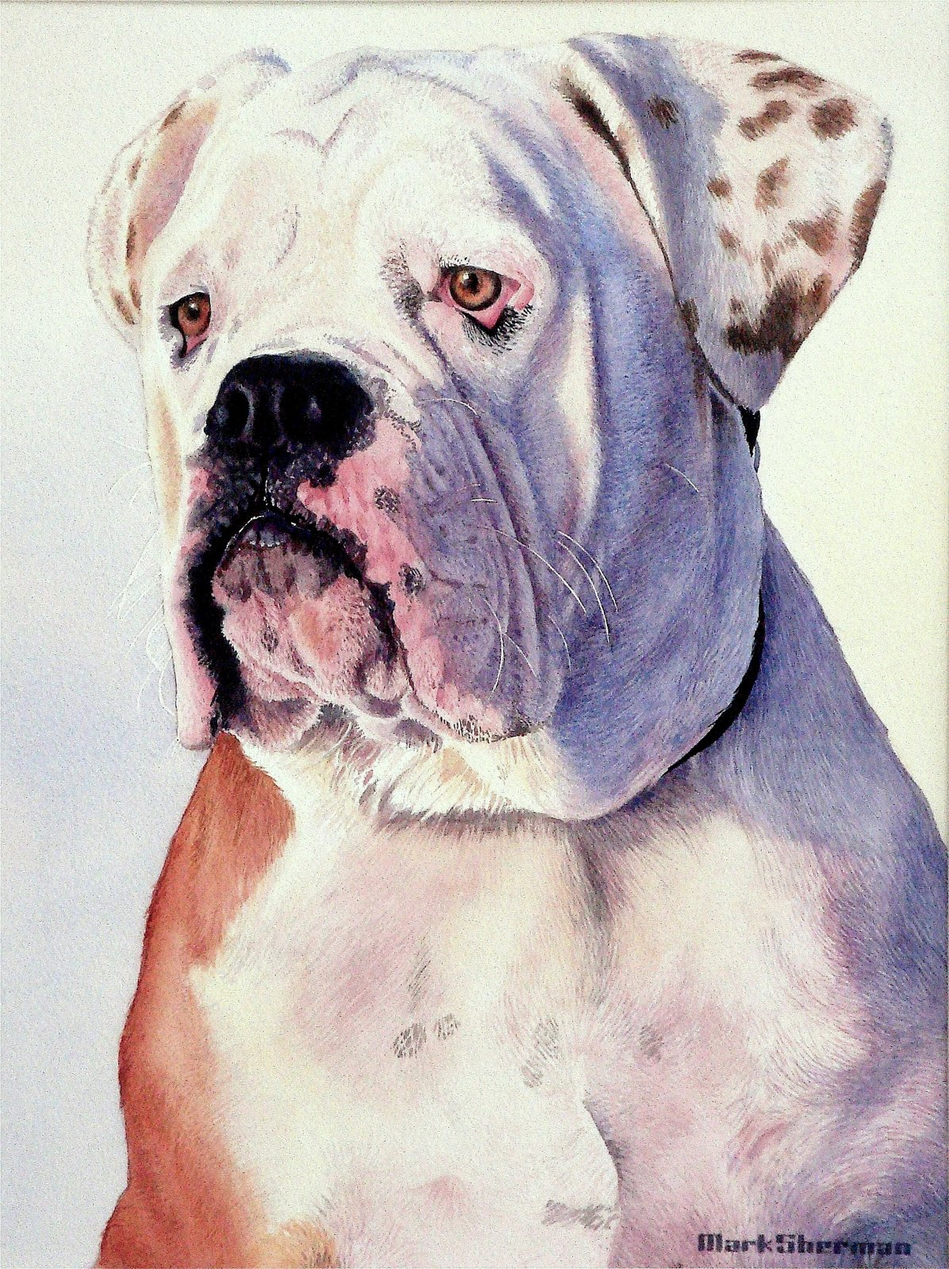
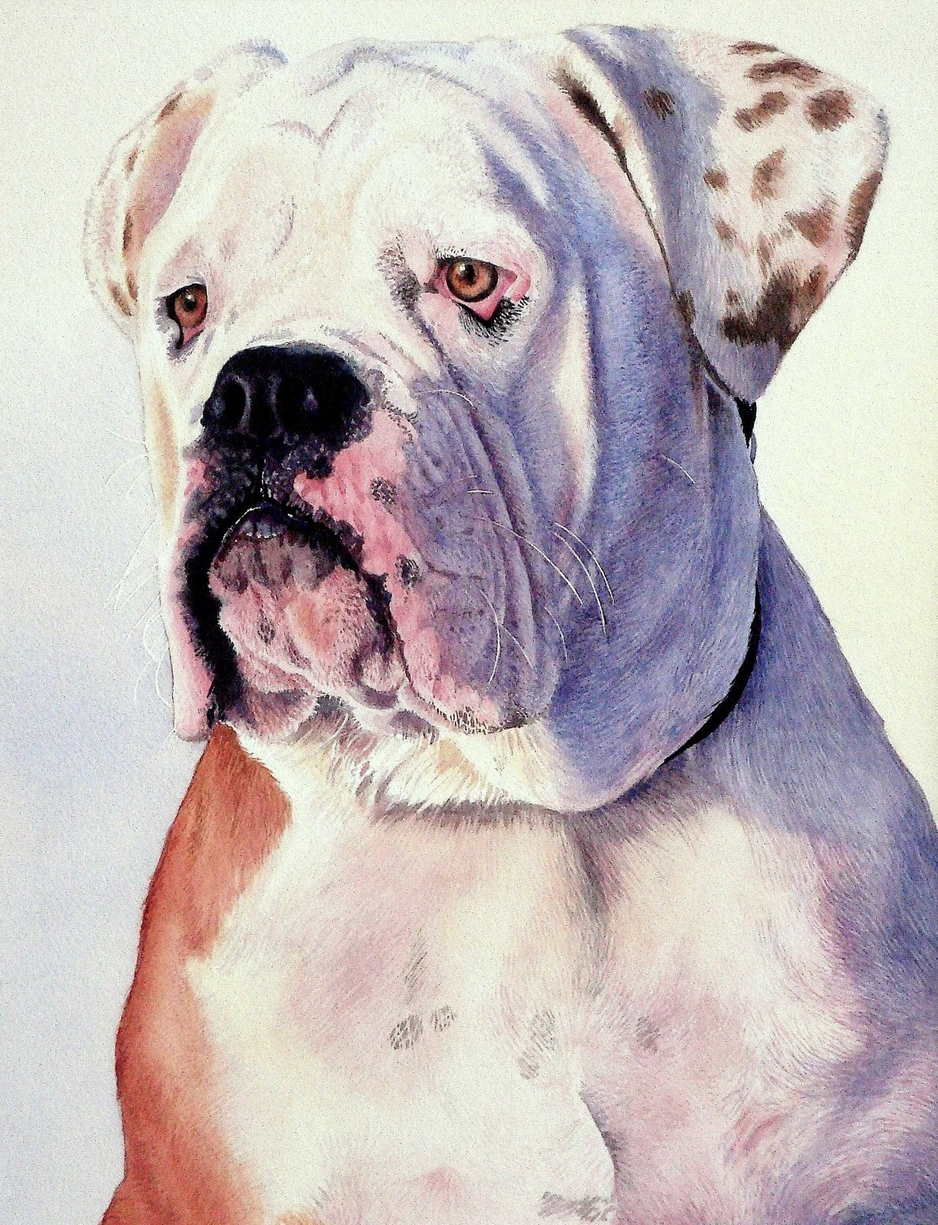
update

diff --git a/commissions.html b/commissions.html
@@ -21,9 +21,9 @@
     <nav class="nav" aria-label="Main">
       <a href="works.html">Works</a>
       <a href="commissions.html" aria-current="page">Commissions</a>
+      <a href="https://www.etsy.com/shop/MarkShermanArt" target="_blank" rel="noopener">Shop</a>
       <a href="about.html">About</a>
       <a href="contact.html">Contact</a>
-      <a href="https://www.etsy.com/shop/MarkShermanArt" target="_blank" rel="noopener">Shop</a>
     </nav>
   </header>
 
@@ -37,7 +37,7 @@
           <figcaption>Pet portrait</figcaption>
         </figure>
         <figure>
-          <img src="images/commissions/pet-bulldog.jpg" alt="Watercolor portrait of a white bulldog with brown spotted ears" width="1196" height="1600" loading="lazy">
+          <img src="images/commissions/pet-bulldog.jpg" alt="Watercolor portrait of a white bulldog with brown spotted ears" width="1183" height="1544" loading="lazy">
           <figcaption>Pet portrait</figcaption>
         </figure>
       </div>

diff --git a/styles.css b/styles.css
@@ -154,7 +154,7 @@ figcaption { display: flex; flex-direction: column; gap: 2px; margin-top: 22px; 
 /* ---- Commissions ---- */
 .commission-samples {
   display: grid;
-  grid-template-columns: 1.87fr 1fr; /* matches the two images' shapes so their heights line up */
+  grid-template-columns: 1.82fr 1fr; /* matches the two images' shapes so their heights line up */
   gap: 32px;
   margin: 28px 0 8px;
   align-items: end;
@@ -305,4 +305,11 @@ figcaption { display: flex; flex-direction: column; gap: 2px; margin-top: 22px; 
 @media (max-width: 760px) {
   .lightbox-body { grid-template-columns: 1fr; padding: 48px 20px 24px; gap: 16px; }
   .lightbox-body img { max-height: 55vh; }
+}
+
+@media (max-width: 480px) {
+  .name { font-size: 26px; letter-spacing: 0.24em; margin-right: -0.24em; }
+  .tagline { font-size: 12px; }
+  .nav { gap: 6px 16px; }
+  .nav a { font-size: 13px; letter-spacing: 0.1em; }
 }

diff --git a/about.html b/about.html
@@ -21,9 +21,9 @@
     <nav class="nav" aria-label="Main">
       <a href="works.html">Works</a>
       <a href="commissions.html">Commissions</a>
+      <a href="https://www.etsy.com/shop/MarkShermanArt" target="_blank" rel="noopener">Shop</a>
       <a href="about.html" aria-current="page">About</a>
       <a href="contact.html">Contact</a>
-      <a href="https://www.etsy.com/shop/MarkShermanArt" target="_blank" rel="noopener">Shop</a>
     </nav>
   </header>
 

diff --git a/contact.html b/contact.html
@@ -21,9 +21,9 @@
     <nav class="nav" aria-label="Main">
       <a href="works.html">Works</a>
       <a href="commissions.html">Commissions</a>
+      <a href="https://www.etsy.com/shop/MarkShermanArt" target="_blank" rel="noopener">Shop</a>
       <a href="about.html">About</a>
       <a href="contact.html" aria-current="page">Contact</a>
-      <a href="https://www.etsy.com/shop/MarkShermanArt" target="_blank" rel="noopener">Shop</a>
     </nav>
   </header>
 

diff --git a/works.html b/works.html
@@ -21,9 +21,9 @@
     <nav class="nav" aria-label="Main">
       <a href="works.html" aria-current="page">Works</a>
       <a href="commissions.html">Commissions</a>
+      <a href="https://www.etsy.com/shop/MarkShermanArt" target="_blank" rel="noopener">Shop</a>
       <a href="about.html">About</a>
       <a href="contact.html">Contact</a>
-      <a href="https://www.etsy.com/shop/MarkShermanArt" target="_blank" rel="noopener">Shop</a>
     </nav>
   </header>
 

diff --git a/index.html b/index.html
@@ -21,9 +21,9 @@
     <nav class="nav" aria-label="Main">
       <a href="works.html">Works</a>
       <a href="commissions.html">Commissions</a>
+      <a href="https://www.etsy.com/shop/MarkShermanArt" target="_blank" rel="noopener">Shop</a>
       <a href="about.html">About</a>
       <a href="contact.html">Contact</a>
-      <a href="https://www.etsy.com/shop/MarkShermanArt" target="_blank" rel="noopener">Shop</a>
     </nav>
   </header>
 

diff --git a/README.md b/README.md
@@ -5,7 +5,7 @@ A plain HTML site. No build step. Netlify serves the folder as it is.
 ## Files
 
 - `index.html` – home page with the slideshow
-- `works.html`, `commissions.html`, `about.html`, `contact.html` – one page each. The header is copied into every page, so a menu change must be made in all five files
+- `works.html`, `commissions.html`, `about.html`, `contact.html` – one page each. The header is copied into every page, so a menu change must be made in every .html file
 - `paintings.js` – the list of paintings shown on the Works page, and the list of slideshow photos. Edit this file to add, remove or mark a painting sold
 - `styles.css` – colors, fonts and layout
 - `main.js` – builds the slideshow, the Works grid and the larger view from `paintings.js`
